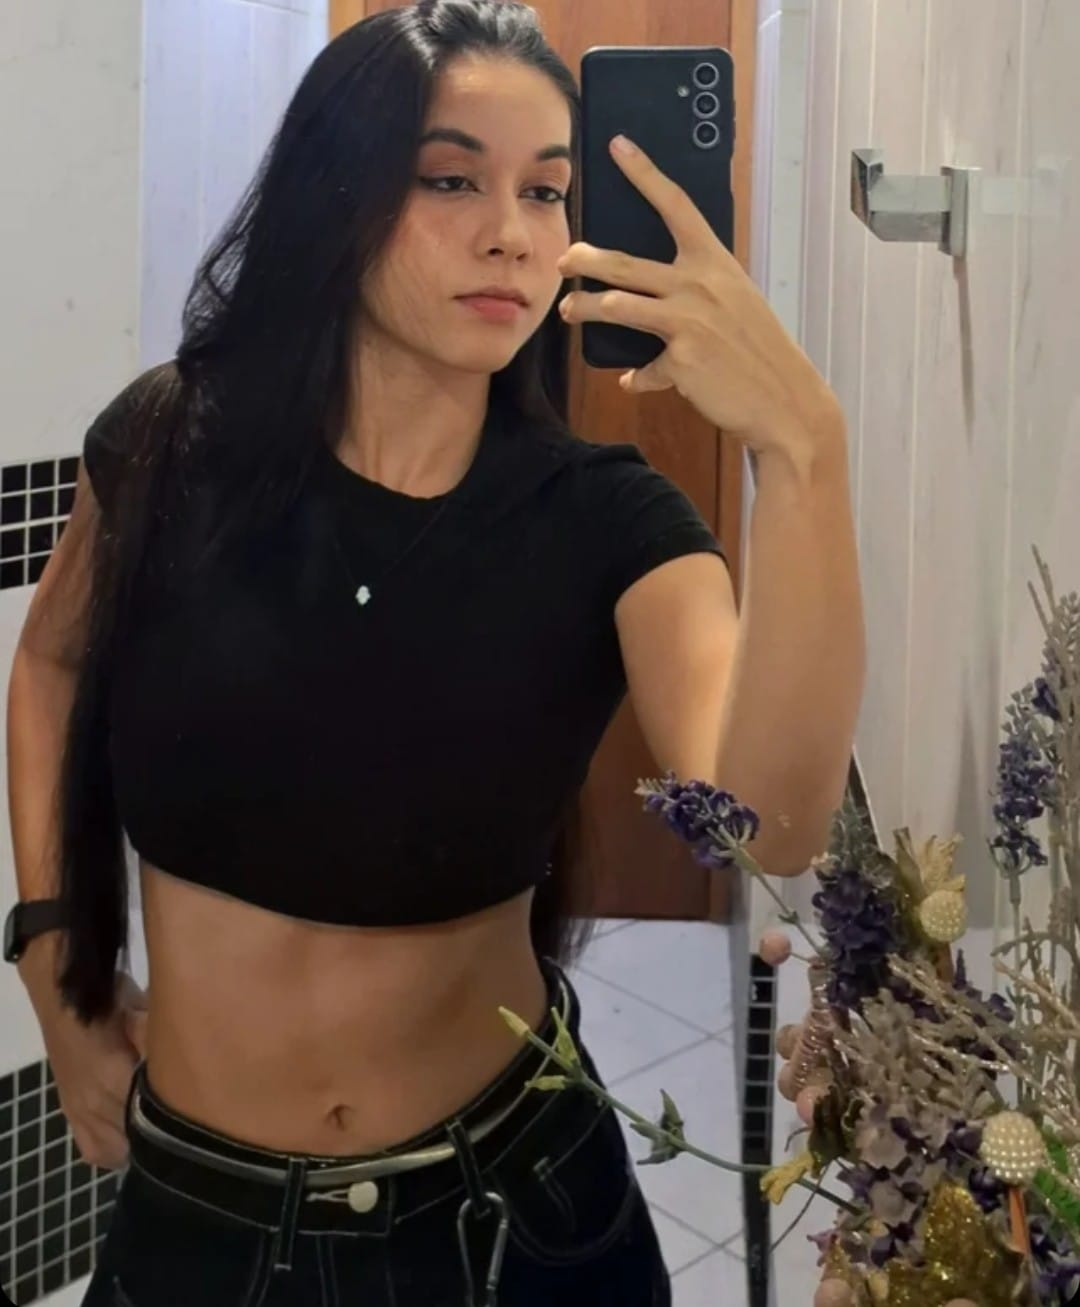
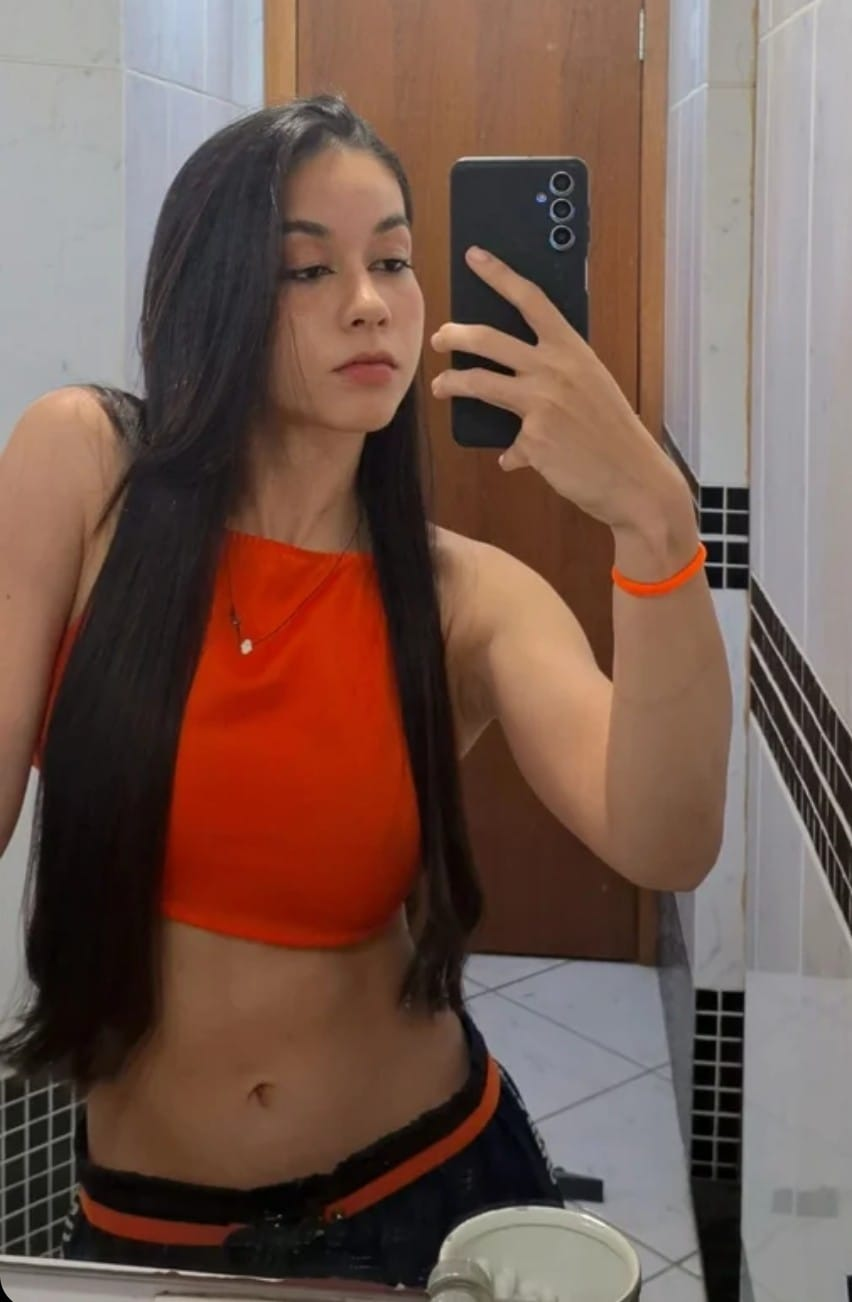
fix

diff --git a/meu_convite_pwa/lib/main.dart b/meu_convite_pwa/lib/main.dart
@@ -77,6 +77,15 @@ class _InviteHomePageState extends State<InviteHomePage> {
         ),
         backgroundColor: const Color(0xFFB39DDB),
       ),
+      floatingActionButton: ElevatedButton.icon(
+          label: Text("Sobre mim"),
+          onPressed: () {
+            Navigator.push(
+              context,
+              MaterialPageRoute(builder: (context) => const MemoryCarousel()),
+            );
+          },
+          icon: Icon(Icons.info)),
       body: Padding(
         padding: const EdgeInsets.all(16.0),
         child: Column(
@@ -119,16 +128,6 @@ class _InviteHomePageState extends State<InviteHomePage> {
                   return buildPlaceCard(context, places[index]);
                 },
               ),
-            ),
-            GestureDetector(
-              onTap: () {
-                Navigator.push(
-                  context,
-                  MaterialPageRoute(
-                      builder: (context) => const MemoryCarousel()),
-                );
-              },
-              child: buildSectionHeader('Fotos minhas p vc n me achar maluca'),
             ),
           ],
         ),
@@ -296,13 +295,6 @@ class SuccessScreen extends StatelessWidget {
   }
 }
 
-class MemoryCarousel extends StatefulWidget {
-  const MemoryCarousel({super.key});
-
-  @override
-  State<MemoryCarousel> createState() => _MemoryCarouselState();
-}
-
 class Memoria {
   String image;
   String message;
@@ -318,23 +310,58 @@ class Memoria {
 }
 
 var memorias = [
+  // Sobre Mim
   Memoria.image(
-      image: 'assets/eu1.jpeg', message: "Já imaginar um date nosso..."),
+    image: 'assets/eu1.jpeg',
+    message:
+        "Sou de BH e, como vc pode imaginar, trabalho desenvolvendo aplicativos...",
+  ),
   Memoria.image(
-      image: 'assets/eu2.jpeg', message: "Malho p ficar bonita no date"),
-  Memoria.image(image: 'assets/eu3.jpeg', message: ""),
-  Memoria.image(image: 'assets/eu4.jpeg', message: ""),
-  Memoria.image(image: 'assets/eu5.jpeg', message: ""),
+    image: 'assets/eu3.jpeg',
+    message:
+        "Tenho 22 anos e nunca namorei, ou seja, n tenho histórico complicado...",
+  ),
+  Memoria.image(
+    image: 'assets/eu2.jpeg',
+    message: "Sou lésbica e assumida para toda a minha família...",
+  ),
+
+  // Motivação para o Date
+  Memoria.image(
+    image: 'assets/eu4.jpeg',
+    message:
+        "Quero apenas fazer um date. Desenvolvi este app porque imaginei que teria mais chances de vc responder...",
+  ),
+  Memoria.image(
+    image: 'assets/eu5.jpeg',
+    message: "Acho que vc deveria aceitar o convite só pela história...",
+  ),
 ];
 
+class MemoryCarousel extends StatefulWidget {
+  const MemoryCarousel({super.key});
+
+  @override
+  State<MemoryCarousel> createState() => _MemoryCarouselState();
+}
+
 class _MemoryCarouselState extends State<MemoryCarousel> {
+  final PageController _pageController = PageController();
+  int _currentPage = 0;
+
   @override
   void initState() {
     super.initState();
+    _pageController.addListener(() {
+      setState(() {
+        _currentPage = _pageController.page?.round() ?? 0;
+      });
+    });
   }
 
   @override
   void dispose() {
+    _pageController.dispose();
     super.dispose();
   }
 
@@ -343,41 +370,47 @@ class _MemoryCarouselState extends State<MemoryCarousel> {
     return Scaffold(
       body: Stack(
         children: [
+          // Carrossel de fotos
           PageView.builder(
+            controller: _pageController,
             itemCount: memorias.length,
             itemBuilder: (context, index) {
               final memory = memorias[index];
               return Stack(
                 fit: StackFit.expand,
                 children: [
+                  // Imagem de fundo
                   Image.asset(
                     memory.image,
                     fit: BoxFit.cover,
                   ),
+                  // Overlay escuro para melhorar a legibilidade do texto
                   Container(
-                    color: Colors.black.withValues(alpha: 0.5),
+                    color: Colors.black.withOpacity(0.4),
                   ),
-                  Center(
-                    child: Padding(
-                      padding: const EdgeInsets.all(16.0),
-                      child: Text(
-                        memory.message,
-                        textAlign: TextAlign.center,
-                        style: const TextStyle(
-                          color: Colors.white,
-                          fontSize: 24,
-                          fontWeight: FontWeight.bold,
-                          shadows: [
-                            Shadow(
-                              color: Colors.black,
-                              blurRadius: 10,
-                              offset: Offset(2, 2),
-                            ),
-                          ],
+                  // Mensagem centralizada (se existir)
+                  if (memory.message.isNotEmpty)
+                    Center(
+                      child: Padding(
+                        padding: const EdgeInsets.all(16.0),
+                        child: Text(
+                          memory.message,
+                          textAlign: TextAlign.center,
+                          style: const TextStyle(
+                            color: Colors.white,
+                            fontSize: 24,
+                            fontWeight: FontWeight.bold,
+                            shadows: [
+                              Shadow(
+                                color: Colors.black,
+                                blurRadius: 10,
+                                offset: Offset(2, 2),
+                              ),
+                            ],
+                          ),
                         ),
                       ),
                     ),
-                  ),
                 ],
               );
             },
@@ -386,10 +419,33 @@ class _MemoryCarouselState extends State<MemoryCarousel> {
             top: 40,
             left: 16,
             child: IconButton(
-              icon: const Icon(Icons.arrow_back, color: Colors.white),
+              icon: const Icon(Icons.arrow_back, color: Colors.white, size: 30),
               onPressed: () {
                 Navigator.pop(context);
               },
+            ),
+          ),
+
+          Positioned(
+            bottom: 20,
+            left: 0,
+            right: 0,
+            child: Row(
+              mainAxisAlignment: MainAxisAlignment.center,
+              children: List.generate(
+                memorias.length,
+                (index) => Container(
+                  width: 8,
+                  height: 8,
+                  margin: const EdgeInsets.symmetric(horizontal: 4),
+                  decoration: BoxDecoration(
+                    shape: BoxShape.circle,
+                    color: _currentPage == index
+                        ? Colors.white
+                        : Colors.white.withOpacity(0.5),
+                  ),
+                ),
+              ),
             ),
           ),
         ],
